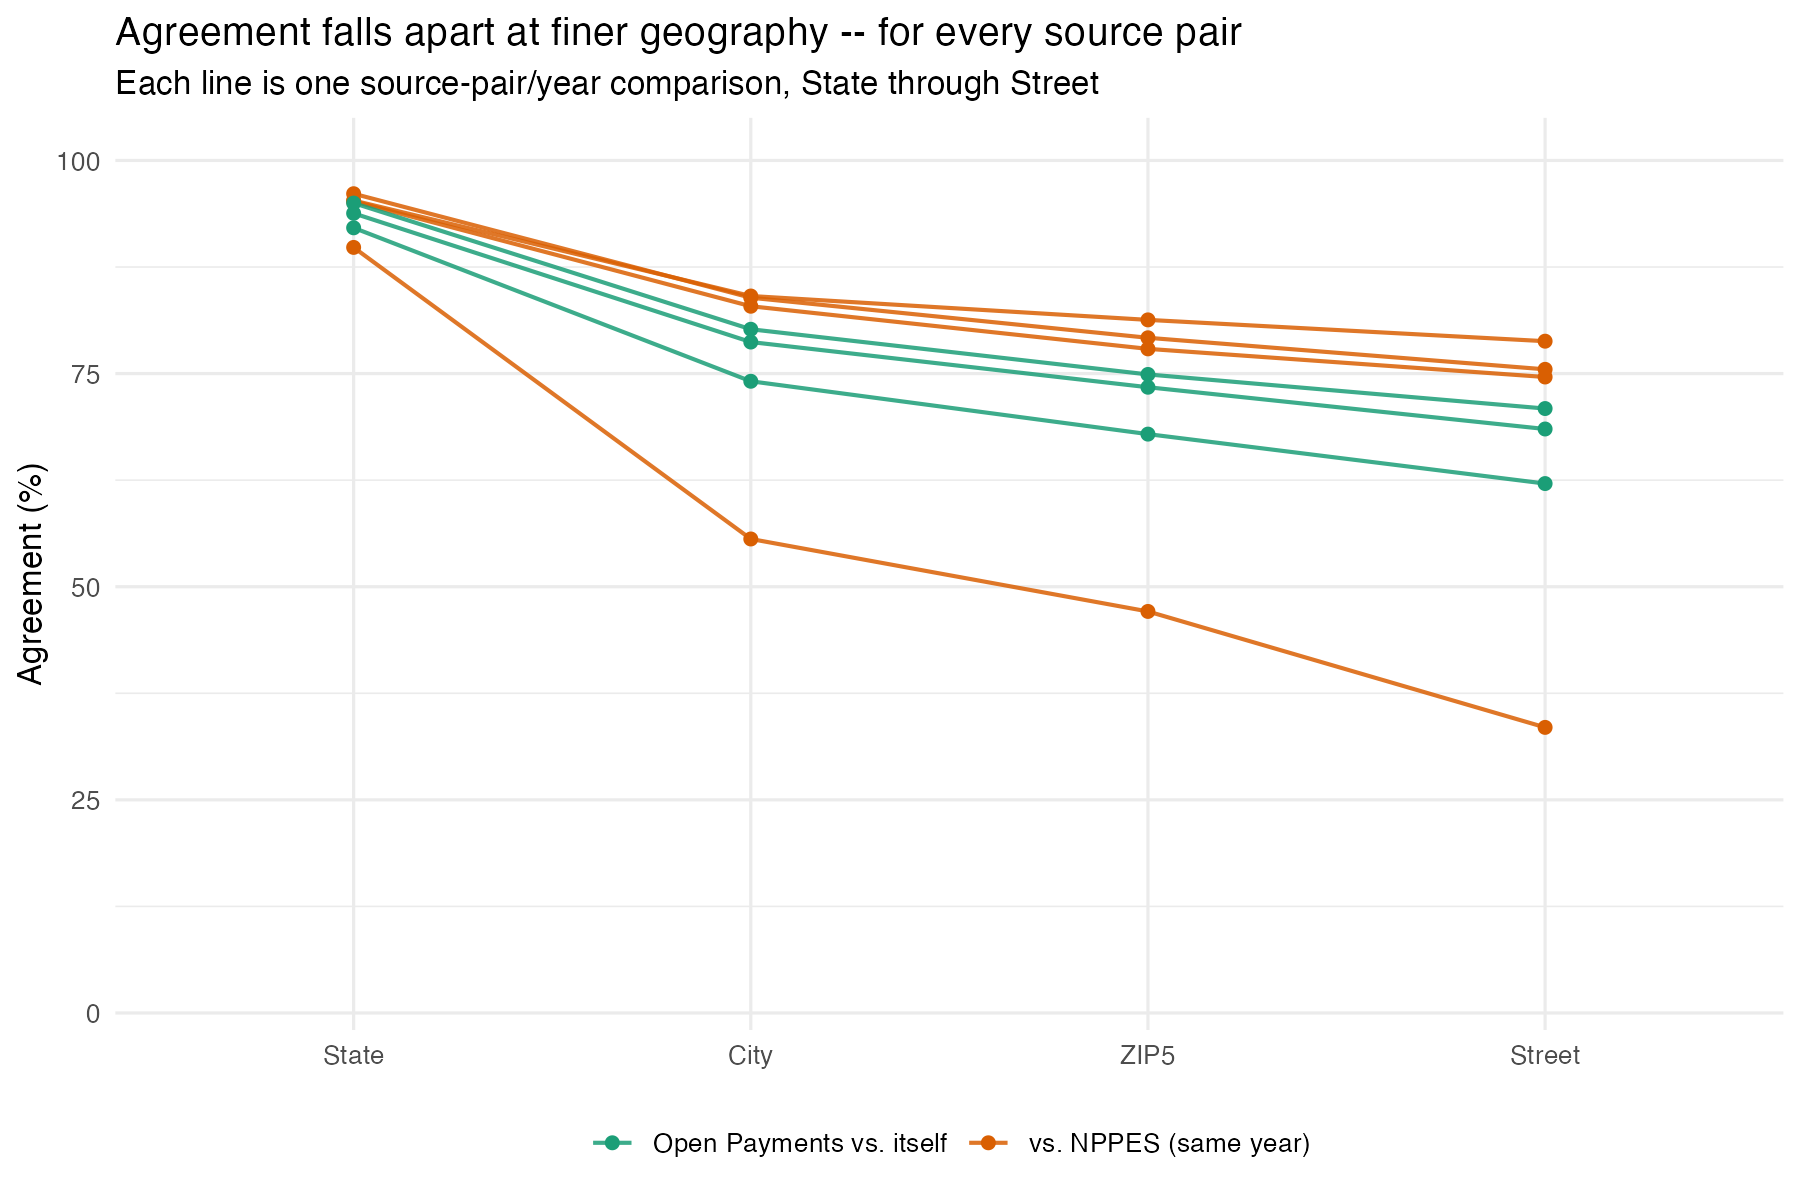
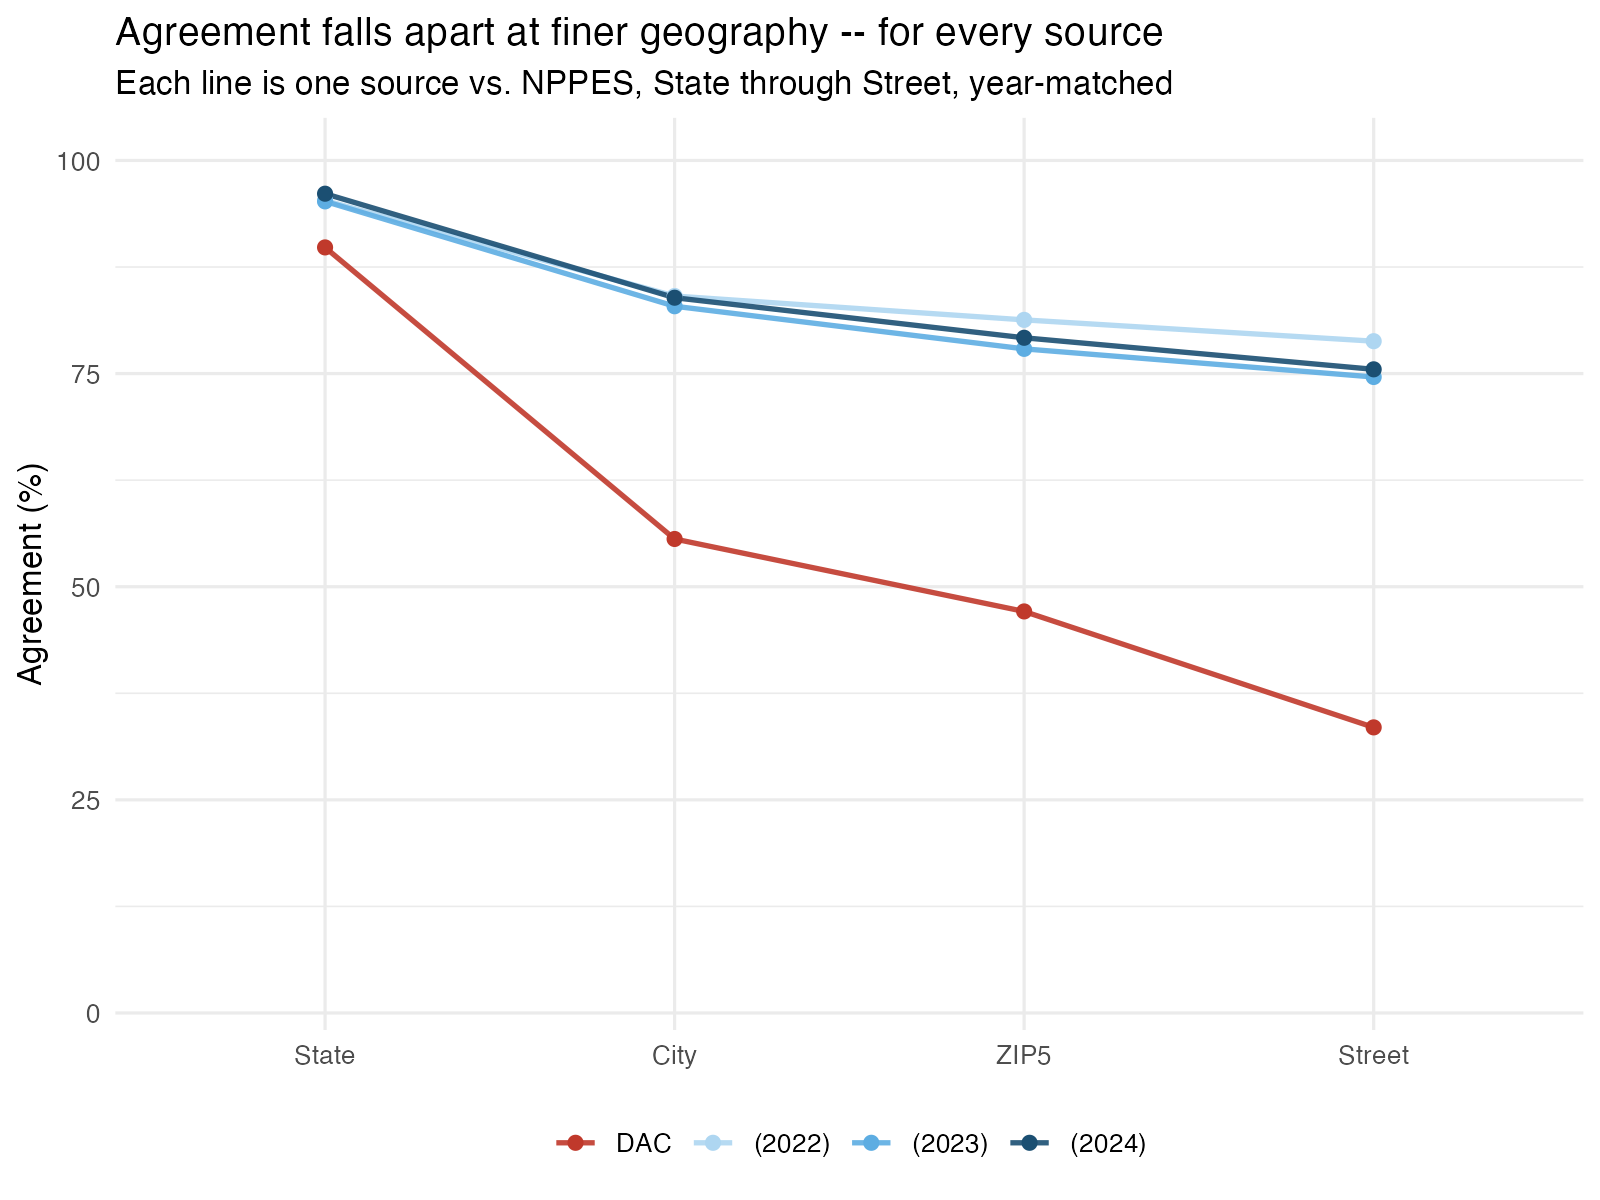
Drop the Open-Payments-vs-itself (year-over-year) comparison
Removed at the repo owner's request, same reasoning as the
DAC-vs-Open-Payments removal in the prior commit: this project now
carries exactly one comparison type in this appendix, rather than
mixing same-source-across-years results in with same-year-across-
sources results.

compare_dac_openpayments_to_nppes_address.R no longer computes the
yoy pairs. The main figure drops its second panel and simplifies to
a single bar chart (DAC + 3 Open Payments years, one series each).
The three additional figures (heatmap, cascade, power check) drop
their now-degenerate faceting/coloring by comparison_type, since
there's only one type left, and color/facet by source directly
instead -- clearer than before, not just simpler. Technical appendix
rewritten to match: one results table, one "why two comparisons were
removed" section covering both removals.

Claude-Session: https://claude.ai/code/session_01B86vSCLDD8XppKj5UFN1As

diff --git a/docs/TECHNICAL_APPENDIX_DAC_OPENPAYMENTS_ADDRESS_AGREEMENT.md b/docs/TECHNICAL_APPENDIX_DAC_OPENPAYMENTS_ADDRESS_AGREEMENT.md
@@ -4,7 +4,7 @@
 **Primary scripts**: [`extract_dac_midwives.R`](../extract_dac_midwives.R), [`match_open_payments_general_payments.py`](../match_open_payments_general_payments.py), [`compare_dac_openpayments_to_nppes_address.R`](../compare_dac_openpayments_to_nppes_address.R), [`make_address_agreement_figure.R`](../make_address_agreement_figure.R), [`make_address_agreement_additional_figures.R`](../make_address_agreement_additional_figures.R)
 **Related**: [`TECHNICAL_APPENDIX_MIGRATION_YEAR_OVER_YEAR.md`](TECHNICAL_APPENDIX_MIGRATION_YEAR_OVER_YEAR.md) (the question this was raised to help answer — can an NPPES-measured move be independently confirmed), [`OPEN_PAYMENTS_LINKAGE_COMPARISON.md`](OPEN_PAYMENTS_LINKAGE_COMPARISON.md) (two prior, disagreeing Open Payments employer-linkage builds — a different question from this one)
 **Investigation date**: 2026-10-20 to 2026-10-22
-**Status**: measurement complete. Every comparison in this appendix is year-matched; a DAC-vs-Open-Payments comparison was built, found to be impossible to year-match, and removed — see §4.
+**Status**: measurement complete. One comparison, every row of it year-matched: DAC or Open Payments against NPPES, same provider, same year. Two other comparisons were built and removed — see §4.
 
 ---
 
@@ -19,15 +19,12 @@ appendix is that check, run for real against two sources already present in
 this project: CMS Doctors & Clinicians (DAC, PECOS-derived) and CMS Open
 Payments (Sunshine Act general payments).
 
-Two questions, both answerable without comparing across mismatched years:
+One question: **does DAC, or does Open Payments, agree with NPPES on a
+midwife's practice address — for the same provider, in the same year?**
 
-1. **Does DAC agree with NPPES, for the same provider, in the same year?**
-2. **Does Open Payments agree with NPPES, for the same provider, in the same
-   year — and does Open Payments agree with *itself* across different
-   program years for the same person?**
-
-A third, originally-planned question — do DAC and Open Payments agree with
-*each other* — turned out not to be answerable this way at all. See §4.
+Two other questions were tried and abandoned, both for the same reason:
+neither could be answered without comparing data from different years as if
+they were the same year. See §4.
 
 ## 2. What was pulled, and what it's dated to
 
@@ -81,13 +78,11 @@ A third, originally-planned question — do DAC and Open Payments agree with
 All agreement percentages are computed only over pairs where **both** sides
 have a non-blank value at that geographic level (`comparable_n`); see
 `artifacts/dac_openpayments_vs_nppes_address_agreement.csv` for the full
-table with `comparable_n`/`agree_n` alongside every percentage. Both tables
-below are year-matched — see §4 for the comparison that isn't, and why it's
-not here.
+table with `comparable_n`/`agree_n` alongside every percentage.
 
-![Two ways to check a midwife's address, and how often they agree](figures/dac_openpayments_vs_nppes_agreement.png)
+![How well do DAC and Open Payments agree with NPPES on address?](figures/dac_openpayments_vs_nppes_agreement.png)
 
-### 3a. Each source vs. NPPES, same year (n = 5,576 DAC; 3,210–4,020/year Open Payments)
+### Each source vs. NPPES, same year (n = 5,576 DAC; 3,210–4,020/year Open Payments)
 
 | Level | DAC (2026) | Open Payments 2022 | 2023 | 2024 |
 |---|---:|---:|---:|---:|
@@ -96,49 +91,42 @@ not here.
 | ZIP5 | 47.1% | 81.3% | 77.9% | 79.2% |
 | Street | 32.8% | 78.8% | 74.6% | 75.5% |
 
-### 3b. Open Payments against itself, different program years, same person (n = 2,175–2,500)
+## 4. Two comparisons that were tried and removed
 
-| Level | 2022 vs 2023 | 2022 vs 2024 | 2023 vs 2024 |
-|---|---:|---:|---:|
-| State | 95.0% | 92.1% | 93.8% |
-| City | 80.2% | 74.1% | 78.7% |
-| ZIP5 | 74.9% | 67.9% | 73.4% |
-| Street | 70.9% | 62.1% | 68.6% |
+Two other comparisons lived in earlier versions of this appendix. Both are
+gone as of 2026-10-22.
 
-## 4. Why there is no DAC-vs-Open-Payments comparison
-
-An earlier version of this appendix included a third comparison, DAC
-directly against Open Payments, plus a three-way NPPES/DAC/Open-Payments
-concordance figure built on top of it. Both are removed as of 2026-10-22.
-
-The reason: DAC has exactly **one** public vintage. Checked directly against
-CMS's own metastore API (`data.cms.gov/provider-data/api/1/metastore/schemas/dataset/items/mj5m-pzi6`)
+**DAC directly against Open Payments** (plus a three-way NPPES/DAC/Open-
+Payments concordance figure built on top of it). DAC has exactly **one**
+public vintage. Checked directly against CMS's own metastore API
+(`data.cms.gov/provider-data/api/1/metastore/schemas/dataset/items/mj5m-pzi6`)
 — it returns a single `distribution`, no history. Wayback Machine has only
 captured the dataset's JS-rendered landing page, not the underlying
 700+MB CSV. There is no public way to fetch "DAC as it stood in 2022" (or
 2023, or 2024) the way Open Payments publishes one archived file per program
-year. Any DAC-vs-Open-Payments comparison is therefore always DAC's single
+year. Any DAC-vs-Open-Payments comparison was therefore always DAC's single
 2026 vintage against an Open Payments year 2–4 years earlier — a real,
-unclosable gap, not a year-matched comparison, no matter how clearly the
-gap is labeled.
+unclosable gap, not a year match, no matter how clearly the gap was
+labeled. (A personal 2021 DAC snapshot exists in the repo owner's iCloud
+Drive, which would narrow the gap to one year for the 2022 Open Payments
+pull only — not pursued, since it still wouldn't be a true match, and would
+leave 2023/2024 with no DAC comparison at all.) What it had shown, for the
+record: DAC agreed with Open Payments *less* than DAC agreed with NPPES
+directly, despite Open Payments agreeing with NPPES far more than DAC
+did — consistent with, though no longer offered as evidence for, the
+NPPES-sourcing suspicion in §5.
 
-"Every analysis needs to be year matched" is a hard rule in this project.
-A labeled mismatch is still a mismatch, so both the pairwise
-DAC-vs-Open-Payments numbers and the three-way concordance figure built on
-them were removed rather than kept with a caveat. (A personal 2021 DAC
-snapshot exists in the repo owner's iCloud Drive, which would narrow the
-gap to one year for the 2022 Open Payments pull only — not pursued, since
-it still wouldn't be a true match, and would leave 2023/2024 with no DAC
-comparison at all.)
+**Open Payments against itself, different program years, same person.**
+This one *was* genuinely year-matched in the sense that every comparison
+pair was labeled with the two real years being compared — the problem the
+other removed comparison had. It was removed anyway, at the repo owner's
+request, so this appendix carries exactly one comparison type rather than
+mixing same-source-across-years results in with same-year-across-sources
+results.
 
-What the removed comparison had shown, for the record (see git history for
-the exact figures if needed): DAC agreed with Open Payments *less* than DAC
-agreed with NPPES directly, despite Open Payments agreeing with NPPES far
-more than DAC did — the kind of asymmetry you'd expect if Open Payments'
-agreement with NPPES weren't fully independent confirmation. That finding no
-longer stands as evidence here, for the year-matching reason above, but it's
-consistent with — and motivated a closer look at — the weaker, still
-year-matched version of the same asymmetry in §5.
+"Every analysis needs to be year matched" is a hard rule in this project —
+see git history for the removed figures, computations, and exact prior
+numbers for both.
 
 ## 5. What this does and does not establish
 
@@ -168,13 +156,6 @@ year-matched version of the same asymmetry in §5.
   that a one-line change:
   `OPEN_PAYMENTS_YEAR=2017 python3 match_open_payments_general_payments.py`)
   and re-running `compare_dac_openpayments_to_nppes_address.R`.
-- **The Open-Payments-vs-itself check (§3b) is the one genuinely
-  same-source longitudinal address signal this project now has**, independent
-  of NPPES. Its year-over-year disagreement (city: 20–26%) is higher than
-  the within-year Open-Payments-vs-NPPES disagreement (city: 16–17%), which
-  is the expected direction if some of it is real movement rather than pure
-  source noise — but the two are not cleanly separable from this comparison
-  alone.
 
 ## 6. Three more views
 
@@ -182,19 +163,18 @@ year-matched version of the same asymmetry in §5.
 re-plots the table in §3 from three different angles — no new numbers of its
 own.
 
-![Every source pair, every geographic level, one view](figures/address_agreement_heatmap.png)
+![Every source, every geographic level, one view](figures/address_agreement_heatmap.png)
 
 - **Heatmap** (`docs/figures/address_agreement_heatmap.png`): every
-  source-pair/level cell in §3 in one grid. Fastest way to see that the
-  DAC row runs noticeably warmer (lower agreement) than every Open Payments
-  row.
+  source/level cell in §3 in one grid. Fastest way to see that the DAC row
+  runs noticeably warmer (lower agreement) than every Open Payments row.
 
 ![Agreement falls apart at finer geography](figures/address_agreement_cascade.png)
 
 - **Cascade** (`docs/figures/address_agreement_cascade.png`): the same data
-  as connected lines, State through Street. Both comparison families
-  degrade with geographic grain at roughly the same rate; the DAC line just
-  starts lower and ends lower.
+  as connected lines, State through Street. All four sources degrade with
+  geographic grain at roughly the same rate; the DAC line just starts lower
+  and ends lower.
 
 ![No headline number rests on a tiny sample](figures/address_agreement_power.png)
 
